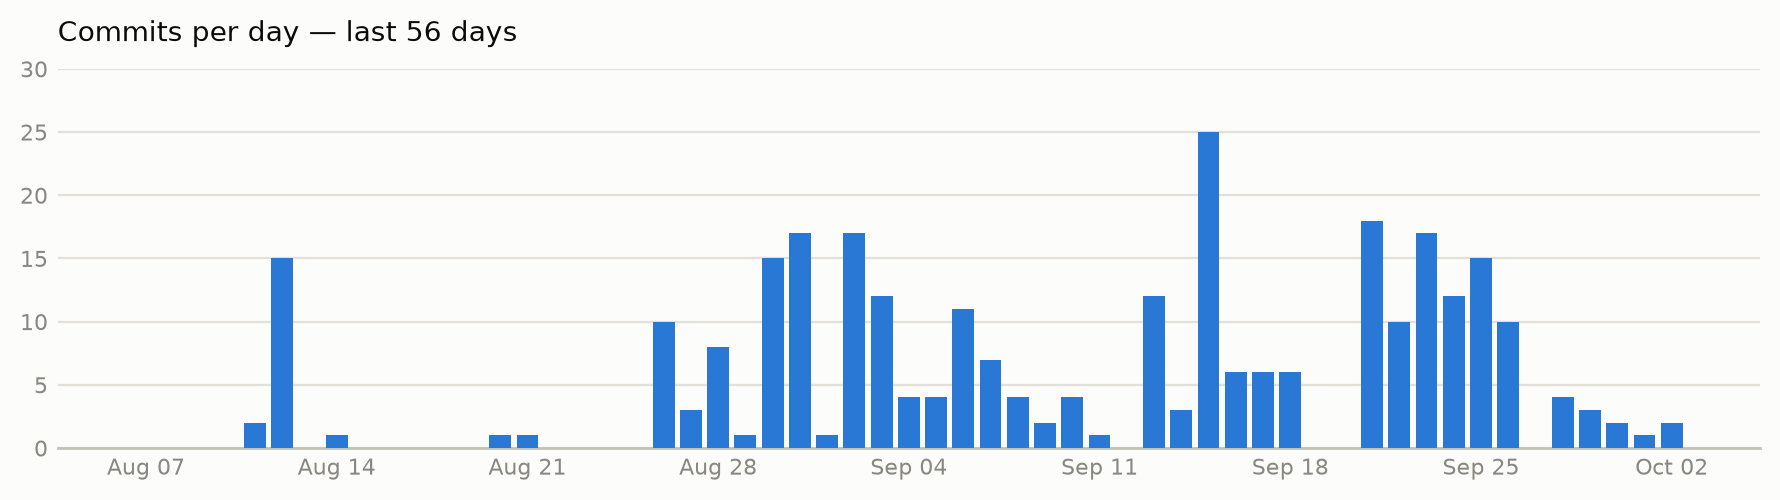
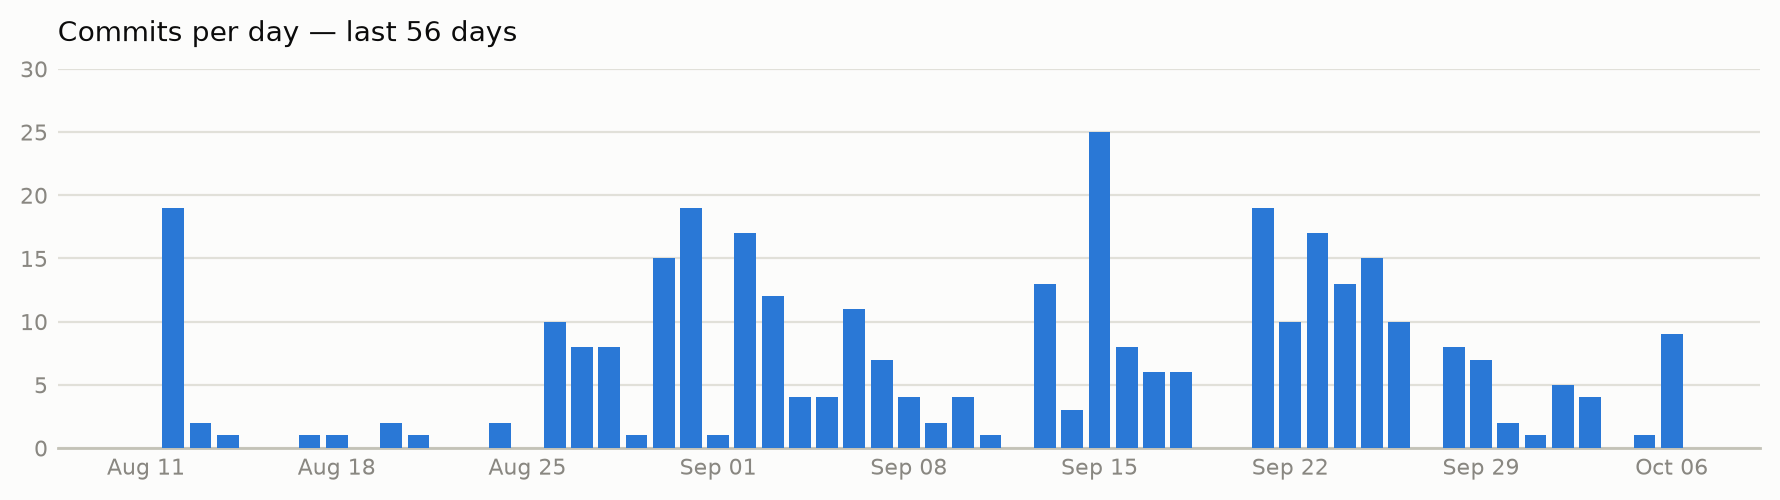
chore: update org README stats

diff --git a/profile/README.md b/profile/README.md
@@ -54,7 +54,7 @@ Follow us on [LinkedIn](https://www.linkedin.com/company/tietech-innovations/) f
 ## 📊 Commit activity
 
 <!-- STATS:START -->
-In the last 56 days: **293** commits across **9/58** active repos (**57** private).
+In the last 56 days: **339** commits across **10/58** active repos (**57** private).
 
 <picture>
   <source media="(prefers-color-scheme: dark)" srcset="assets/commit-graph-dark.png">
@@ -63,23 +63,23 @@ In the last 56 days: **293** commits across **9/58** active repos (**57** privat
 
 **Most active repos**
 
-- `chatbot-saas` — 80 commits
-- `social-media-pipeline` — 63 commits
+- `chatbot-saas` — 82 commits
+- `social-media-pipeline` — 70 commits
 - `minaya-backend` — 58 commits
+- `tietech-website` — 34 commits
 - `minaya-docs` — 27 commits
-- `cold-marketing-agent` — 24 commits
 
 **Top contributors**
 
-- ZainMustafaaa — 226 commits
+- ZainMustafaaa — 258 commits
+- sanaejaz — 21 commits
 - MajidImtiaz — 16 commits
-- abdullahumar2002 — 13 commits
-- actions — 13 commits
-- sanaejaz — 12 commits
+- actions — 15 commits
+- abdullahumar2002 — 14 commits
 
 **Primary languages**: `JavaScript`, `TypeScript`, `Python`, `Solidity`, `Kotlin`
 <!-- STATS:END -->
 
 <div align="center">
-<sub>Last updated: 2026-10-02 20:24 UTC</sub>
+<sub>Last updated: 2026-10-06 22:30 UTC</sub>
 </div>
